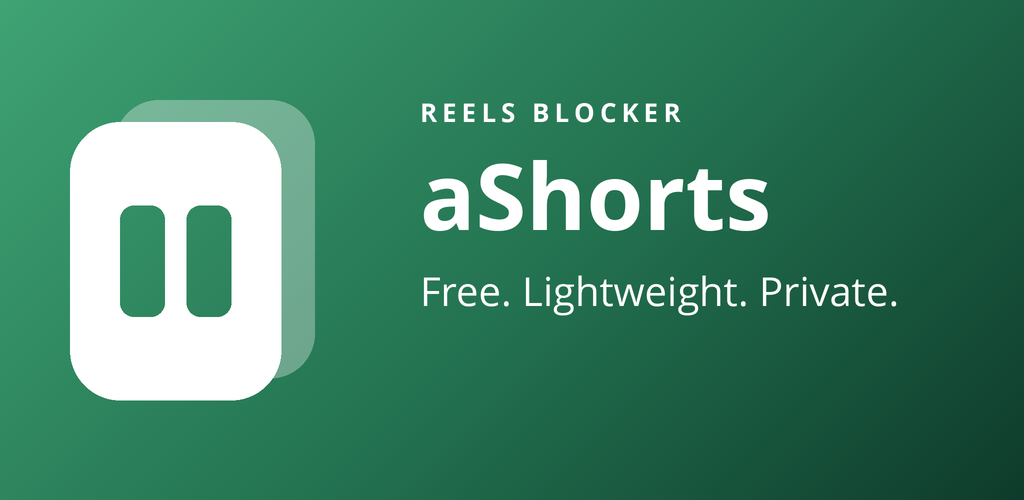
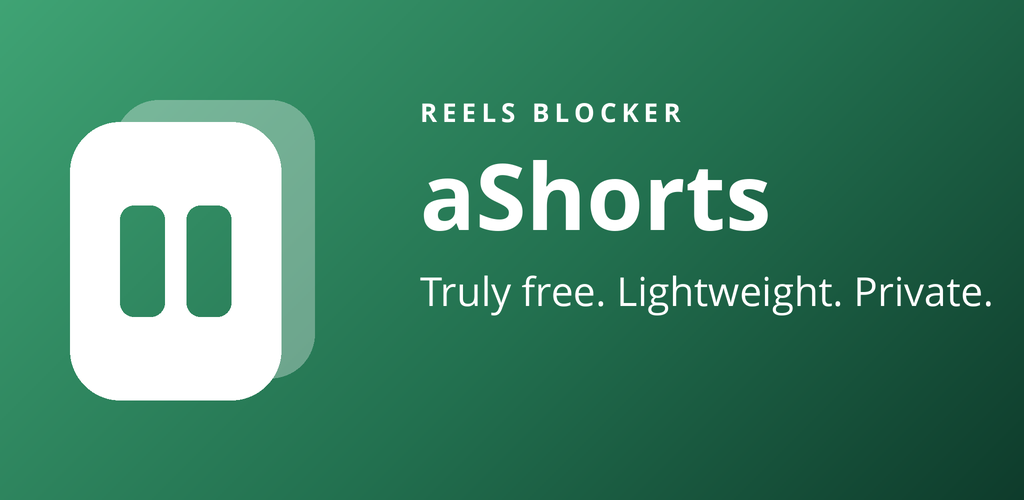
Store listing: lead with "truly free"

Changed region(s): [[0.4062, 0.54, 0.9688, 0.63]]

diff --git a/tools/render_store_assets.py b/tools/render_store_assets.py
@@ -102,7 +102,7 @@ def feature_graphic():
         d.text((cx, h / 2 - 2 * 128), ch, font=eyebrow, fill=(255, 255, 255, 200), anchor="ls")
         cx += d.textlength(ch, font=eyebrow) + 2 * 5
     d.text((x, h / 2 - 2 * 20), "aShorts", font=title, fill="white", anchor="ls")
-    d.text((x, h / 2 + 2 * 56), "Free. Lightweight. Private.", font=tag,
+    d.text((x, h / 2 + 2 * 56), "Truly free. Lightweight. Private.", font=tag,
            fill=(255, 255, 255, 225), anchor="ls")
     return img.resize((1024, 500), Image.LANCZOS).convert("RGB")
 

diff --git a/play/PLAY-CONSOLE.md b/play/PLAY-CONSOLE.md
@@ -90,8 +90,8 @@ Turn aShorts off in Accessibility settings first, then record:
 ## 4. Store listing (task 6)
 
 Play Console → Grow → Store presence → Main store listing. Text and graphics are in
-`fastlane/metadata/android/en-US/` (title 22/30, short description 74/80, full description
-980/4000 characters; icon 512×512; feature graphic 1024×500).
+`fastlane/metadata/android/en-US/` (title 22/30, short description 75/80, full description
+1033/4000 characters; icon 512×512; feature graphic 1024×500).
 
 **Phone screenshots (you):** Play needs at least 2 (portrait, 1080×1920 to 1080×2400 is ideal).
 Suggested set, captured on your phone:
